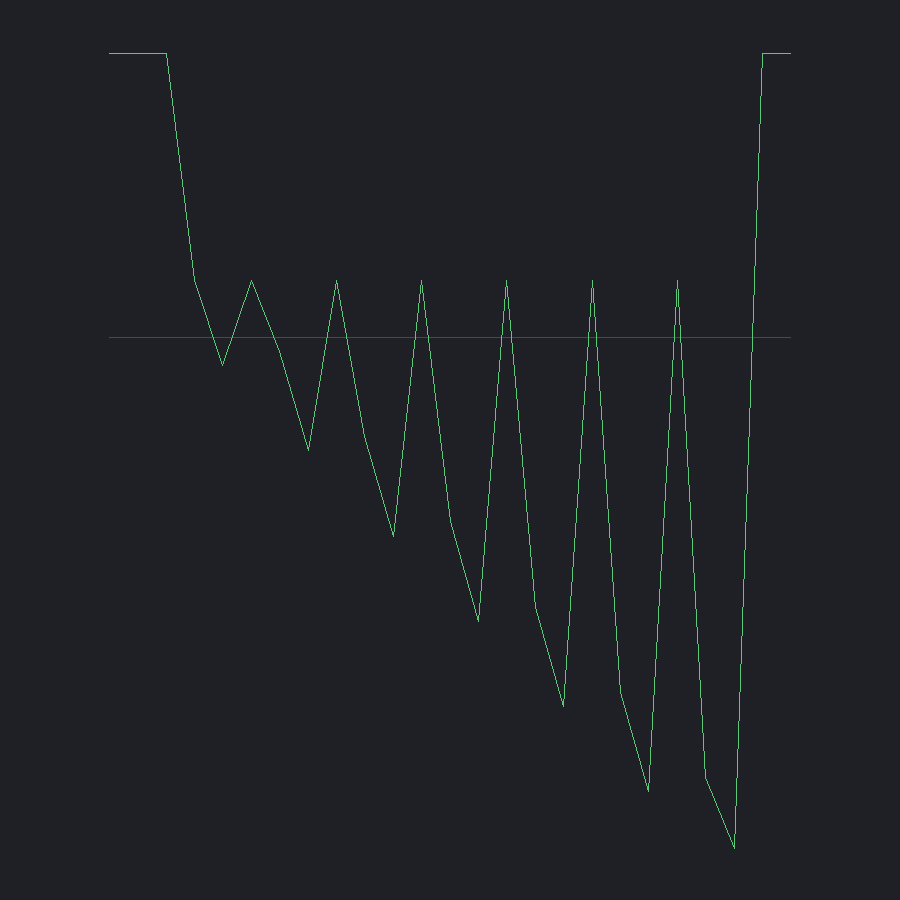
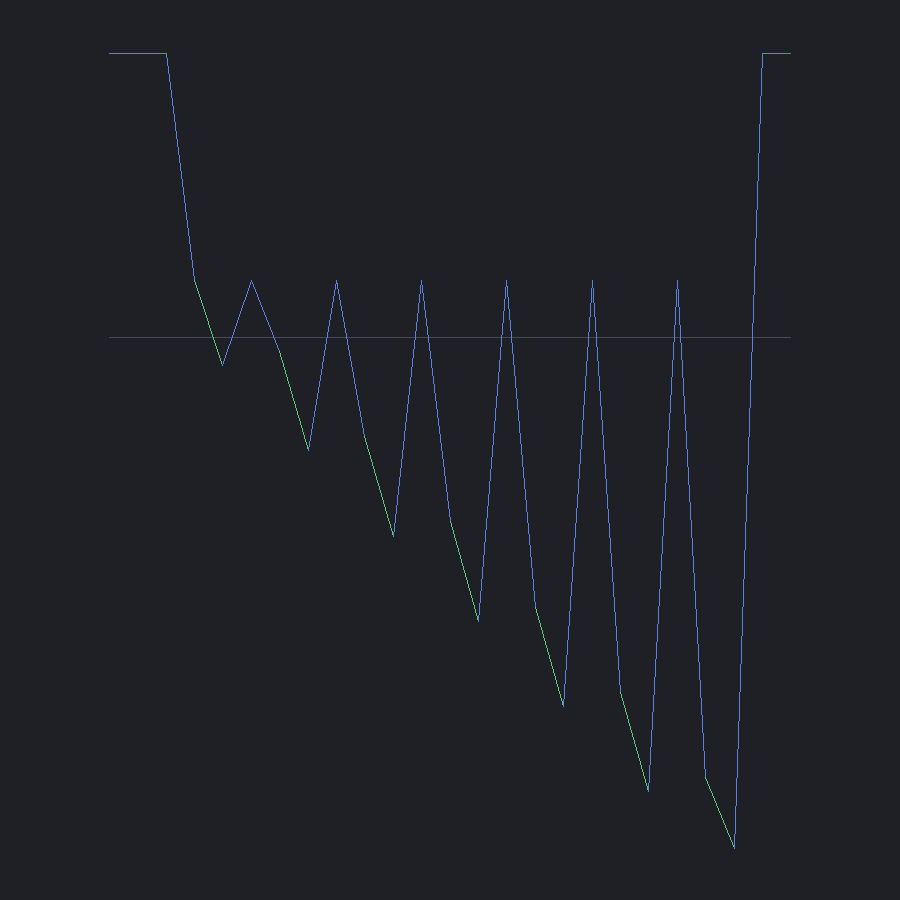
Animate the G84/G74 tapping cycle (thread in and back out at feed)
The canned-cycle expander treated tapping like a drill: feed in, rapid out. A
tap is engaged in the thread the whole time — it cannot rapid out without
stripping it. Expand G84 (right-hand) and G74 (left-hand) to thread in at feed,
optionally dwell at the bottom for the spindle to reverse, then thread back out
at feed. The dwell (P) is latched modally. The removed volume is unchanged — this
is playback fidelity.

The motion is distinguished from a drill only by feed-vs-rapid, which is
invisible in a positions-only view. So make the depth-profile renderer colour
rapids (blue) and cutting moves (green) — the CAM backplot convention — driven by
a new bridge.MaterialPath that keeps the expanded G0/G1 distinction. A tap then
reads as a symmetric green V (feed in and out); a drill plunges green and rapids
out blue; the peck woodpecker shows green plunges and blue chip-clear retracts.

Adds a voxel-tap-profile gallery chart and recolours the peck chart.

diff --git a/bridge/plot/depth.go b/bridge/plot/depth.go
@@ -10,37 +10,72 @@ import (
 	"oblikovati.org/cam/bridge/gcode"
 )
 
-// Depth profile: a Z-against-progress chart of a toolpath, the standard way to read a drilling
-// cycle's motion. A single plunge is one descending stroke; a G83/G73 peck cycle is a woodpecker —
-// stepping down and retracting — which a carved-stock image cannot show (the removed volume is the
-// same either way). The simulator validation uses this to confirm the peck animation.
+// Depth profile: a Z-against-progress chart of a toolpath, the standard way to read a drilling or
+// tapping cycle's motion. Rapids (G0) are drawn blue and cutting moves (G1/G2/G3) green — the CAM
+// backplot convention — so a cycle's character reads at a glance: a drill plunges (green) and rapids
+// out (blue); a peck cycle is a green/blue woodpecker; a tap threads in AND out under feed (green
+// both ways). The removed volume is identical across these, so a carved-stock image cannot show it.
 
 var depthBackground = color.RGBA{30, 32, 38, 255} // dark slate, matching the carve renderer
-var depthLine = color.RGBA{90, 200, 120, 255}     // green stroke
+var depthFeed = color.RGBA{90, 200, 120, 255}     // cutting move (G1/G2/G3)
+var depthRapid = color.RGBA{90, 130, 220, 255}    // rapid move (G0)
 var depthZero = color.RGBA{70, 74, 86, 255}       // the Z=0 (stock top) reference line
 
-// RenderDepthProfile draws a size×size chart of each point's Z (vertical, +Z up) against its index
-// along the path (horizontal). Fewer than two points renders a blank frame.
-func RenderDepthProfile(points []gcode.Vector3, size int) image.Image {
+// RenderDepthProfile draws a size×size chart of each motion command's Z (vertical, +Z up) against
+// its index along the path (horizontal), colouring rapids and feeds distinctly. A path with fewer
+// than two moves renders a blank frame.
+func RenderDepthProfile(path gcode.Path, size int) image.Image {
 	img := image.NewRGBA(image.Rect(0, 0, size, size))
 	fill(img, depthBackground)
-	if len(points) < 2 {
+	zs, feed := motionDepths(path)
+	if len(zs) < 2 {
 		return img
 	}
-	tf := newTransform(depthBox(points), size)
-	drawZeroLine(img, tf, len(points))
-	for i := 0; i+1 < len(points); i++ {
-		line(img, tf.px(float64(i), points[i].Z), tf.px(float64(i+1), points[i+1].Z), depthLine)
+	tf := newTransform(depthBox(zs), size)
+	drawZeroLine(img, tf, len(zs))
+	for i := 0; i+1 < len(zs); i++ {
+		col := depthRapid
+		if feed[i+1] {
+			col = depthFeed
+		}
+		line(img, tf.px(float64(i), zs[i]), tf.px(float64(i+1), zs[i+1]), col)
 	}
 	return img
 }
 
+// motionDepths walks the path into one (Z, isFeed) sample per motion command, with Z sticky across
+// commands that omit it. isFeed marks a cutting move (anything but a G0 rapid).
+func motionDepths(path gcode.Path) ([]float64, []bool) {
+	var zs []float64
+	var feed []bool
+	z := 0.0
+	for _, c := range path.Commands {
+		if v, ok := c.Params["Z"]; ok {
+			z = v
+		}
+		if isMotion(c.Name) {
+			zs = append(zs, z)
+			feed = append(feed, c.Name != "G0" && c.Name != "G00")
+		}
+	}
+	return zs, feed
+}
+
+// isMotion reports whether a G-word is a rapid or feed move (incl. leading-zero forms).
+func isMotion(name string) bool {
+	switch name {
+	case "G0", "G1", "G2", "G3", "G00", "G01", "G02", "G03":
+		return true
+	}
+	return false
+}
+
 // depthBox is the world box over (index, Z): the full index span and the Z range (including 0 so the
-// stock top is always in frame), padded.
-func depthBox(points []gcode.Vector3) box {
-	b := box{0, 0, float64(len(points) - 1), 0}
-	for _, p := range points {
-		b.minY, b.maxY = math.Min(b.minY, p.Z), math.Max(b.maxY, p.Z)
+// stock top stays in frame), padded.
+func depthBox(zs []float64) box {
+	b := box{0, 0, float64(len(zs) - 1), 0}
+	for _, z := range zs {
+		b.minY, b.maxY = math.Min(b.minY, z), math.Max(b.maxY, z)
 	}
 	return b.pad(1)
 }

diff --git a/bridge/gcode/canned.go b/bridge/gcode/canned.go
@@ -39,6 +39,7 @@ type cycleState struct {
 	active           string  // the active canned cycle, "" when none
 	x, y, z          float64 // sticky tool position
 	r, bottom, q     float64 // modal retract plane, hole bottom, and peck increment (Q)
+	dwell            float64 // modal bottom dwell (P), seconds — a tap holds here for spindle reversal
 	initialZ         float64 // Z before the cycle block — the G98 retract target
 	retractToInitial bool    // G98 (true) retracts to initialZ; G99 (false) to the R plane
 }
@@ -80,36 +81,68 @@ func (st *cycleState) beginCycle(c Command, out []Command) []Command {
 	if q, ok := c.Params["Q"]; ok {
 		st.q = q
 	}
+	if p, ok := c.Params["P"]; ok {
+		st.dwell = p
+	}
 	return st.emitCycle(c, out)
 }
 
-// emitCycle appends one hole's motion at the command's X/Y (modal otherwise): position over the
-// hole, then either a single plunge or — for a peck cycle — the woodpecker descent.
+// emitCycle appends one hole's motion at the command's X/Y (modal otherwise): position over the hole,
+// then the descent appropriate to the cycle — a single plunge, the peck woodpecker, or a tap that
+// threads back out at feed.
 func (st *cycleState) emitCycle(c Command, out []Command) []Command {
+	st.setXY(c)
+	retract := st.retractTarget()
+	out = append(out, NewCommand("G0", map[string]float64{"X": st.x, "Y": st.y}))
+	switch {
+	case st.isPeck():
+		out = append(st.emitPecks(out), rapid("Z", retract))
+	case st.isTap():
+		out = st.emitTap(out, retract)
+	default:
+		out = append(out, rapid("Z", st.r), feed("Z", st.bottom), rapid("Z", retract))
+	}
+	st.z = retract
+	return out
+}
+
+// emitTap threads the tap in at feed, optionally dwells at the bottom for the spindle to reverse,
+// then threads back out at feed (not a rapid — the tap is engaged in the thread the whole way).
+func (st *cycleState) emitTap(out []Command, retract float64) []Command {
+	out = append(out, rapid("Z", st.r), feed("Z", st.bottom))
+	if st.dwell > 0 {
+		out = append(out, feed("Z", st.bottom)) // hold at the bottom while the spindle reverses
+	}
+	return append(out, feed("Z", retract))
+}
+
+// setXY latches the cycle point's X/Y, keeping the modal value where the command omits one.
+func (st *cycleState) setXY(c Command) {
 	if x, ok := c.Params["X"]; ok {
 		st.x = x
 	}
 	if y, ok := c.Params["Y"]; ok {
 		st.y = y
 	}
-	retract := st.r
+}
+
+// retractTarget is where the cycle retracts to: the initial plane under G98, else the R plane.
+func (st *cycleState) retractTarget() float64 {
 	if st.retractToInitial {
-		retract = st.initialZ
+		return st.initialZ
 	}
-	out = append(out, NewCommand("G0", map[string]float64{"X": st.x, "Y": st.y}))
-	if st.isPeck() {
-		out = st.emitPecks(out)
-	} else {
-		out = append(out, rapid("Z", st.r), feed("Z", st.bottom))
-	}
-	st.z = retract
-	return append(out, NewCommand("G0", map[string]float64{"Z": retract}))
+	return st.r
 }
 
 // isPeck reports whether the active cycle drills in increments (G83 deep-hole, G73 chip-break) with
 // a positive peck size.
 func (st *cycleState) isPeck() bool {
 	return st.q > 0 && (st.active == "G83" || st.active == "G73")
+}
+
+// isTap reports whether the active cycle is a tapping cycle (right-hand G84 or left-hand G74).
+func (st *cycleState) isTap() bool {
+	return st.active == "G84" || st.active == "G74"
 }
 
 // emitPecks appends the incremental descent to the hole bottom. G83 fully retracts to the R plane

diff --git a/bridge/gcode/canned_test.go b/bridge/gcode/canned_test.go
@@ -172,6 +172,59 @@ func TestExpandG73ChipBreak(t *testing.T) {
 	}
 }
 
+// TestExpandG84ThreadsBackOut checks a tapping cycle retracts at FEED (the tap winds out of the
+// thread), not a rapid — the distinguishing motion of G84 vs a drill.
+func TestExpandG84ThreadsBackOut(t *testing.T) {
+	in := NewPath([]Command{
+		NewCommand("G99", nil),
+		NewCommand("G84", map[string]float64{"X": 0, "Y": 0, "Z": -10, "R": 2, "F": 1.5}),
+	})
+	out := ExpandCannedCycles(in)
+	last := out.Commands[len(out.Commands)-1]
+	if last.Name != "G1" || last.Params["Z"] != 2 {
+		t.Errorf("tap retract = %+v, want G1 Z2 (feed back out)", last)
+	}
+	if rapidZ(out) == nil {
+		t.Error("expected at least the rapid to the R plane on entry")
+	}
+	// thread in and thread out: two feed moves, to the bottom and back to R
+	pl := plunges(out)
+	if len(pl) != 2 || pl[0].Z != -10 || pl[1].Z != 2 {
+		t.Errorf("tap feeds = %+v, want feed to -10 then feed to 2", pl)
+	}
+}
+
+// TestExpandG84DwellHolds checks a tap with a dwell pauses at the bottom (an extra hold there) before
+// reversing out.
+func TestExpandG84DwellHolds(t *testing.T) {
+	in := NewPath([]Command{
+		NewCommand("G99", nil),
+		NewCommand("G84", map[string]float64{"X": 0, "Y": 0, "Z": -10, "R": 2, "P": 0.5}),
+	})
+	bottoms := 0
+	for _, p := range plunges(ExpandCannedCycles(in)) {
+		if p.Z == -10 {
+			bottoms++
+		}
+	}
+	if bottoms != 2 { // thread-in to the bottom, then the dwell hold
+		t.Errorf("feed moves at the bottom = %d, want 2 (thread-in + dwell hold)", bottoms)
+	}
+}
+
+// TestExpandG74LeftHandTapsLikeG84 checks a left-hand tap has the same plunge/feed-out geometry.
+func TestExpandG74LeftHandTapsLikeG84(t *testing.T) {
+	in := NewPath([]Command{
+		NewCommand("G99", nil),
+		NewCommand("G74", map[string]float64{"X": 0, "Y": 0, "Z": -8, "R": 1}),
+	})
+	out := ExpandCannedCycles(in)
+	last := out.Commands[len(out.Commands)-1]
+	if last.Name != "G1" || last.Params["Z"] != 1 {
+		t.Errorf("G74 retract = %+v, want G1 Z1 (feed back out)", last)
+	}
+}
+
 // TestExpandPassesNonCyclesThrough checks a program without cycles is returned unchanged.
 func TestExpandPassesNonCyclesThrough(t *testing.T) {
 	in := NewPath([]Command{

diff --git a/bridge/plot/depth_test.go b/bridge/plot/depth_test.go
@@ -3,16 +3,28 @@
 package plot
 
 import (
+	"image"
+	"image/color"
 	"testing"
 
 	"oblikovati.org/cam/bridge/gcode"
 )
 
+// peckPath is a tiny rapid/feed program (a two-peck descent) for renderer tests.
+func peckPath() gcode.Path {
+	return gcode.NewPath([]gcode.Command{
+		gcode.NewCommand("G0", map[string]float64{"Z": 2}),
+		gcode.NewCommand("G1", map[string]float64{"Z": -1}),
+		gcode.NewCommand("G0", map[string]float64{"Z": 2}),
+		gcode.NewCommand("G1", map[string]float64{"Z": -4}),
+		gcode.NewCommand("G0", map[string]float64{"Z": 2}),
+	})
+}
+
 // TestRenderDepthProfileDraws checks the depth chart is the requested size and draws the path over
 // the background.
 func TestRenderDepthProfileDraws(t *testing.T) {
-	pts := []gcode.Vector3{{Z: 2}, {Z: -1}, {Z: 2}, {Z: -4}, {Z: 2}, {Z: -7}}
-	img := RenderDepthProfile(pts, 240)
+	img := RenderDepthProfile(peckPath(), 240)
 	if img.Bounds().Dx() != 240 || img.Bounds().Dy() != 240 {
 		t.Fatalf("size = %dx%d, want 240x240", img.Bounds().Dx(), img.Bounds().Dy())
 	}
@@ -21,9 +33,32 @@ func TestRenderDepthProfileDraws(t *testing.T) {
 	}
 }
 
+// TestRenderDepthProfileColoursMoves checks rapids and feeds are drawn in different colours.
+func TestRenderDepthProfileColoursMoves(t *testing.T) {
+	img := RenderDepthProfile(peckPath(), 240)
+	if !usesColor(img, depthFeed) || !usesColor(img, depthRapid) {
+		t.Error("expected both feed and rapid colours in the chart")
+	}
+}
+
 // TestRenderDepthProfileEmpty checks a too-short path renders a blank image without panicking.
 func TestRenderDepthProfileEmpty(t *testing.T) {
-	if img := RenderDepthProfile([]gcode.Vector3{{Z: 1}}, 80); img.Bounds().Dx() != 80 {
+	short := gcode.NewPath([]gcode.Command{gcode.NewCommand("G1", map[string]float64{"Z": 1})})
+	if img := RenderDepthProfile(short, 80); img.Bounds().Dx() != 80 {
 		t.Errorf("size = %d, want 80", img.Bounds().Dx())
 	}
+}
+
+// usesColor reports whether any pixel matches c.
+func usesColor(img image.Image, c color.RGBA) bool {
+	b := img.Bounds()
+	for y := b.Min.Y; y < b.Max.Y; y++ {
+		for x := b.Min.X; x < b.Max.X; x++ {
+			r, g, bl, a := img.At(x, y).RGBA()
+			if uint8(r>>8) == c.R && uint8(g>>8) == c.G && uint8(bl>>8) == c.B && uint8(a>>8) == c.A {
+				return true
+			}
+		}
+	}
+	return false
 }

diff --git a/cmd/voxshot/main.go b/cmd/voxshot/main.go
@@ -41,22 +41,23 @@ func main() {
 		}
 		fmt.Printf("wrote %s/%s.png  (%d triangles, %.2f mm voxels)\n", outDir, sh.name, len(indices)/3, res)
 	}
-	writePeckProfile(outDir)
+	writeProfile(outDir, "voxel-drill-peck-profile", peckHoleJob())
+	writeProfile(outDir, "voxel-tap-profile", tapHoleJob())
 }
 
-// writePeckProfile renders a depth-over-progress chart of a G83 deep-drilling cycle — the peck
-// "woodpecker" the simulator animates, which a carved-stock image cannot show (the removed volume is
-// identical to a single plunge).
-func writePeckProfile(outDir string) {
-	points, err := bridge.MaterialToolpath(peckHoleJob())
+// writeProfile renders a depth-over-progress chart of a job's motion — the rapid/feed pattern the
+// simulator animates, which a carved-stock image cannot show (the removed volume is the same whether
+// a hole is pecked, threaded, or plunged in one go).
+func writeProfile(outDir, name string, job *bridge.Job) {
+	path, err := bridge.MaterialPath(job)
 	if err != nil {
 		fail(err)
 	}
-	img := plot.RenderDepthProfile(points, imageSize)
-	if err := writePNG(filepath.Join(outDir, "voxel-drill-peck-profile.png"), img); err != nil {
+	img := plot.RenderDepthProfile(path, imageSize)
+	if err := writePNG(filepath.Join(outDir, name+".png"), img); err != nil {
 		fail(err)
 	}
-	fmt.Printf("wrote %s/voxel-drill-peck-profile.png  (%d toolpath points)\n", outDir, len(points))
+	fmt.Printf("wrote %s/%s.png  (%d moves)\n", outDir, name, len(path.Commands))
 }
 
 // peckHoleJob drills one deep hole with a 3 mm peck increment (G83), so the toolpath steps down and
@@ -69,6 +70,20 @@ func peckHoleJob() *bridge.Job {
 	}
 	j := job(stock(40, 40, 20), drill)
 	j.Tools[0].Tool = bridge.ToolBit{ShapeType: "drill", Diameter: 6}
+	return j
+}
+
+// tapHoleJob taps one hole (G84): the tap threads in and — distinct from a drill — threads back out
+// under feed, dwelling at the bottom for the spindle to reverse.
+func tapHoleJob() *bridge.Job {
+	tap := &bridge.TappingOp{
+		OpBase:    bridge.OpBase{OpLabel: "Tap", IsActive: true, ClearanceHeight: 10, RetractHeight: 2, StartDepth: 0, FinalDepth: -14},
+		Pitch:     1.5,
+		DwellTime: 0.3,
+		Holes:     []bridge.DrillTarget{{X: 20, Y: 20, Top: 0, Bottom: -14}},
+	}
+	j := job(stock(40, 40, 16), tap)
+	j.Tools[0].Tool = bridge.ToolBit{ShapeType: "drill", Diameter: 5}
 	return j
 }
 

diff --git a/bridge/material_mesh.go b/bridge/material_mesh.go
@@ -46,3 +46,21 @@ func MaterialToolpath(job *Job) ([]gcode.Vector3, error) {
 	}
 	return cutPoints(cuts), nil
 }
+
+// MaterialPath returns the job's expanded motion program — every active operation's path with its
+// canned cycles unfolded into explicit G0/G1 moves. Unlike MaterialToolpath it keeps the rapid/feed
+// distinction, so a backplot can colour rapids and cuts (e.g. to show a tap threading back out).
+func MaterialPath(job *Job) (gcode.Path, error) {
+	results, err := job.GenerateAll()
+	if err != nil {
+		return gcode.Path{}, fmt.Errorf("generate toolpaths: %w", err)
+	}
+	var cmds []gcode.Command
+	for _, r := range results {
+		cmds = append(cmds, gcode.ExpandCannedCycles(r.Path).Commands...)
+	}
+	if len(cmds) == 0 {
+		return gcode.Path{}, fmt.Errorf("job produced no motion")
+	}
+	return gcode.NewPath(cmds), nil
+}

diff --git a/screenshots/README.md b/screenshots/README.md
@@ -69,4 +69,5 @@ remaining material after every cutter sweep — as a shaded isometric solid.
 | `voxel-pocket-zigzag.png` | Material removal: a zig-zag pocket fully clears its floor, leaving the central island as a clean standing boss. |
 | `voxel-pocket-offset-rib.png` | Carve fidelity: the same pocket cut with concentric offsets leaves an uncut medial rib, which the voxel sim reveals rather than idealises. |
 | `voxel-drilling.png` | Canned cycles: a grid of `G81` drilled holes carves correctly — the cycle is expanded to explicit plunge motion (`gcode.ExpandCannedCycles`) so the simulator sees the holes. |
-| `voxel-drill-peck-profile.png` | Peck drilling: a depth-over-progress chart of a `G83` deep-hole cycle — the woodpecker that steps down by the peck increment and fully retracts to the R plane between pecks. A carved-stock image can't show this (the removed volume equals a single plunge), so it is charted instead. |
+| `voxel-drill-peck-profile.png` | Peck drilling: a depth-over-progress chart of a `G83` deep-hole cycle — green feed-plunges stepping down by the peck increment, blue rapids fully retracting to the R plane between pecks. A carved-stock image can't show this (the removed volume equals a single plunge), so it is charted instead. |
+| `voxel-tap-profile.png` | Tapping: a `G84` cycle threads **in and out under feed** (green both ways) with a dwell at the bottom for spindle reversal — distinct from a drill, which would rapid out (blue). Rapids are blue, cutting moves green. |